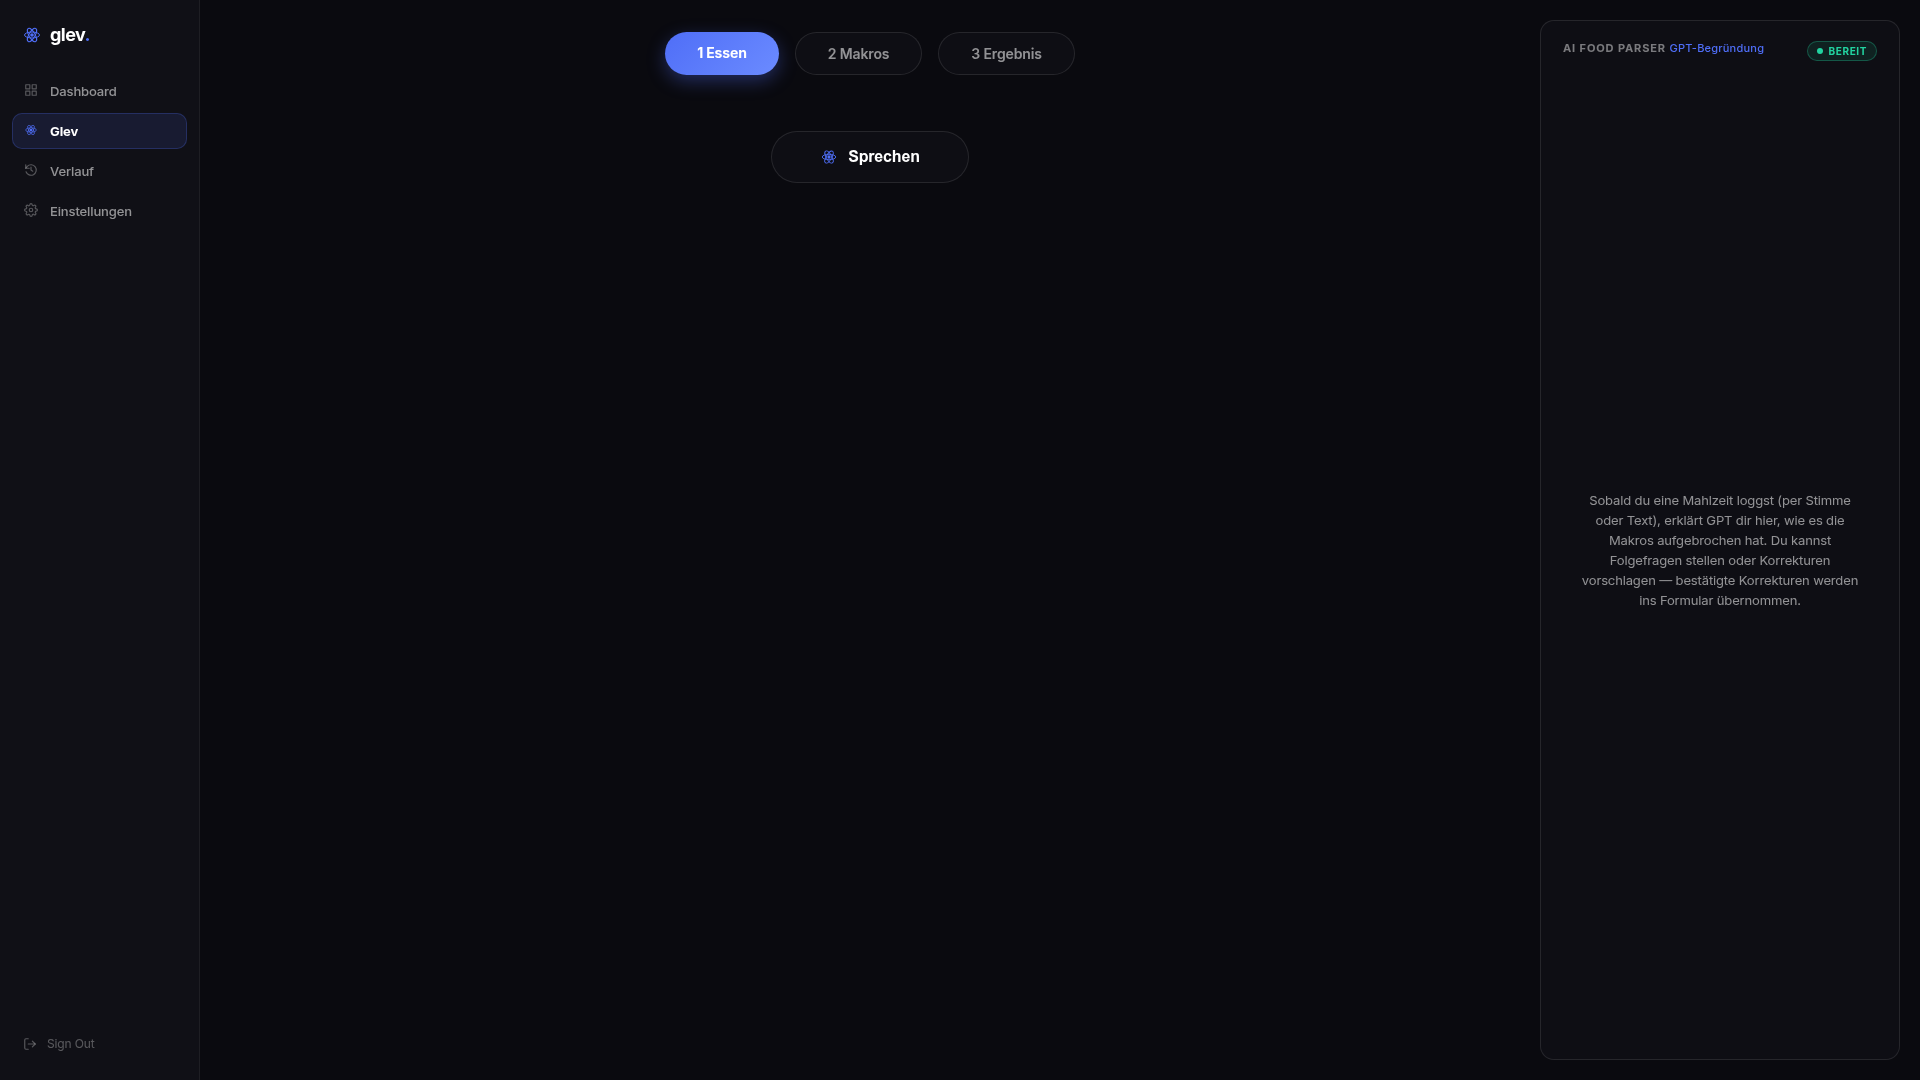
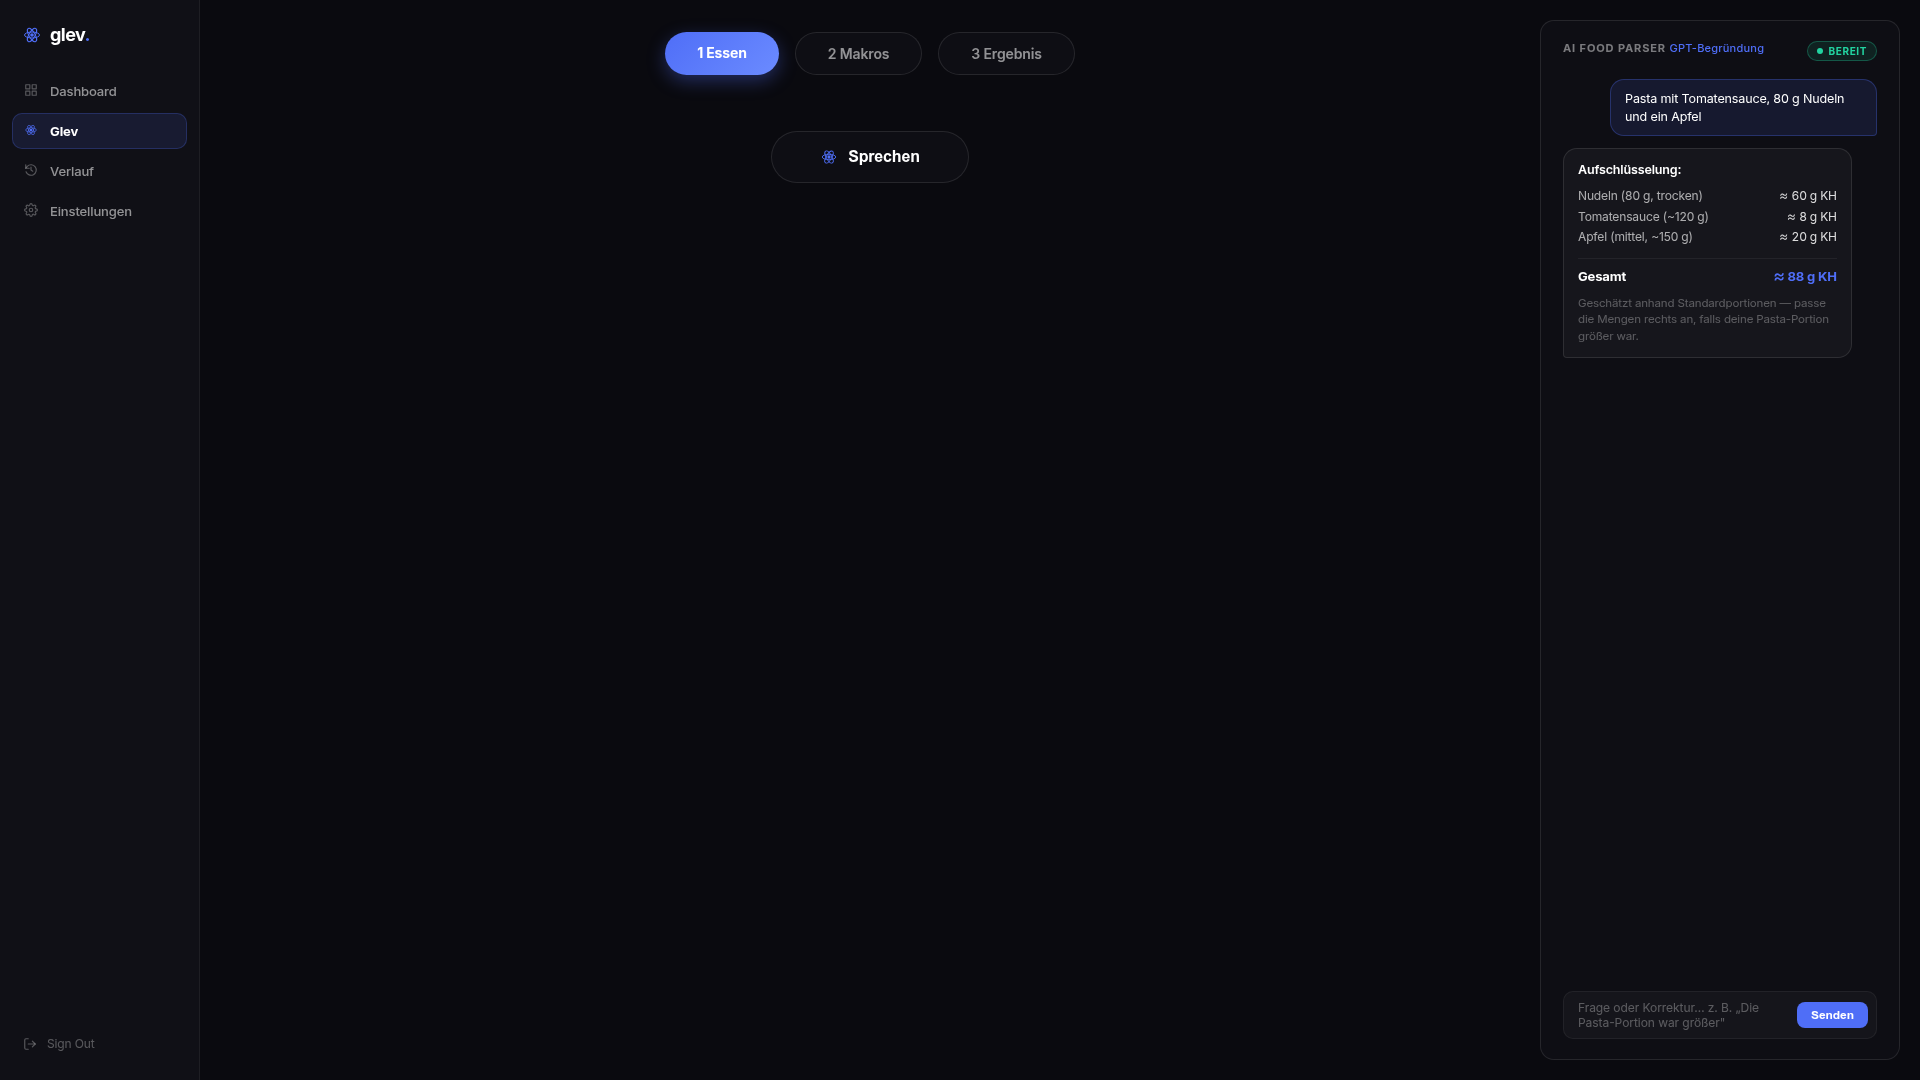
Add example chat and input to AI food parser mockups
Update voice-flow mockup to include example user input, AI response with macro breakdown, and an input bar for follow-up questions.

Replit-Commit-Author: Agent
Replit-Commit-Session-Id: 10ed3cab-3945-480f-9d76-2f8e3b364a2a
Replit-Commit-Checkpoint-Type: full_checkpoint
Replit-Commit-Event-Id: 7c7d4a1e-30e4-4fd1-84d6-ee2f0571875c
Replit-Commit-Screenshot-Url: https://storage.googleapis.com/screenshot-production-us-central1/1582eb31-8cfb-41c9-8ede-f7c139b9ebd0/10ed3cab-3945-480f-9d76-2f8e3b364a2a/Va49qFQ
Replit-Helium-Checkpoint-Created: true

diff --git a/app/mockups/voice-flow/page.tsx b/app/mockups/voice-flow/page.tsx
@@ -157,23 +157,97 @@ export default function VoiceFlowMockup() {
           </div>
         </div>
 
-        {/* Erklärungstext, vertikal mittig — kein Input-Stub am Boden
-            (Lucas-Spec: Panel zeigt nur den Erklär-Status, Input
-            erscheint erst nach dem ersten Log). */}
-        <div style={{ flex: 1, display: "flex", alignItems: "center", justifyContent: "center" }}>
-          <p style={{
-            margin: 0, textAlign: "center",
-            fontSize: 13, lineHeight: 1.55,
-            color: TEXT_DIM,
-            maxWidth: 280,
-          }}>
-            Sobald du eine Mahlzeit loggst (per Stimme oder Text),
-            erklärt GPT dir hier, wie es die Makros aufgebrochen hat.
-            Du kannst Folgefragen stellen oder Korrekturen vorschlagen
-            — bestätigte Korrekturen werden ins Formular übernommen.
-          </p>
+        {/* Beispiel-Chat: zeigt einen User-Input und die GPT-Antwort,
+            damit der Parser im Marketing-Render „lebt" statt leer
+            zu wirken (Lucas-Spec). */}
+        <div style={{
+          flex: 1,
+          display: "flex", flexDirection: "column",
+          gap: 12,
+          marginTop: 18,
+          overflow: "hidden",
+        }}>
+          {/* User-Bubble (rechtsbündig) */}
+          <div style={{ display: "flex", justifyContent: "flex-end" }}>
+            <div style={{
+              maxWidth: "85%",
+              padding: "10px 14px",
+              borderRadius: "14px 14px 4px 14px",
+              background: ACCENT_DIM,
+              border: `1px solid rgba(79,110,247,0.30)`,
+              color: TEXT,
+              fontSize: 12.5, lineHeight: 1.4,
+            }}>
+              Pasta mit Tomatensauce, 80 g Nudeln und ein Apfel
+            </div>
+          </div>
+
+          {/* GPT-Response (linksbündig) */}
+          <div style={{ display: "flex", justifyContent: "flex-start" }}>
+            <div style={{
+              maxWidth: "92%",
+              padding: "12px 14px",
+              borderRadius: "14px 14px 14px 4px",
+              background: "rgba(255,255,255,0.035)",
+              border: `1px solid ${BORDER_HI}`,
+              color: TEXT_DIM,
+              fontSize: 12.5, lineHeight: 1.5,
+              display: "flex", flexDirection: "column", gap: 8,
+            }}>
+              <div style={{ color: TEXT, fontWeight: 600 }}>
+                Aufschlüsselung:
+              </div>
+              <div style={{ display: "flex", flexDirection: "column", gap: 4 }}>
+                <MacroLine label="Nudeln (80 g, trocken)" value="≈ 60 g KH" />
+                <MacroLine label="Tomatensauce (~120 g)" value="≈ 8 g KH" />
+                <MacroLine label="Apfel (mittel, ~150 g)" value="≈ 20 g KH" />
+              </div>
+              <div style={{
+                marginTop: 4, paddingTop: 8,
+                borderTop: `1px solid ${BORDER}`,
+                display: "flex", justifyContent: "space-between",
+                color: TEXT, fontWeight: 700, fontSize: 13,
+              }}>
+                <span>Gesamt</span>
+                <span style={{ color: ACCENT }}>≈ 88 g KH</span>
+              </div>
+              <div style={{ fontSize: 11.5, color: TEXT_FAINT, lineHeight: 1.45 }}>
+                Geschätzt anhand Standardportionen — passe die Mengen
+                rechts an, falls deine Pasta-Portion größer war.
+              </div>
+            </div>
+          </div>
+        </div>
+
+        {/* Input-Bar am Boden — Folgefragen / Korrekturen */}
+        <div style={{
+          marginTop: 12,
+          display: "flex", alignItems: "center", gap: 8,
+          padding: "8px 8px 8px 14px",
+          borderRadius: 10,
+          background: "rgba(255,255,255,0.03)",
+          border: `1px solid ${BORDER}`,
+        }}>
+          <span style={{ flex: 1, fontSize: 12, color: TEXT_FAINT, letterSpacing: "-0.005em" }}>
+            Frage oder Korrektur… z. B. „Die Pasta-Portion war größer"
+          </span>
+          <button style={{
+            padding: "6px 14px", borderRadius: 8,
+            background: ACCENT, color: "#fff",
+            fontSize: 12, fontWeight: 700, letterSpacing: "-0.005em",
+            border: "none", cursor: "pointer",
+          }}>Senden</button>
         </div>
       </aside>
+    </div>
+  );
+}
+
+function MacroLine({ label, value }: { label: string; value: string }) {
+  return (
+    <div style={{ display: "flex", justifyContent: "space-between", gap: 12, fontSize: 12, lineHeight: 1.4 }}>
+      <span style={{ color: "rgba(255,255,255,0.65)" }}>{label}</span>
+      <span style={{ color: "rgba(255,255,255,0.85)", fontVariantNumeric: "tabular-nums" }}>{value}</span>
     </div>
   );
 }